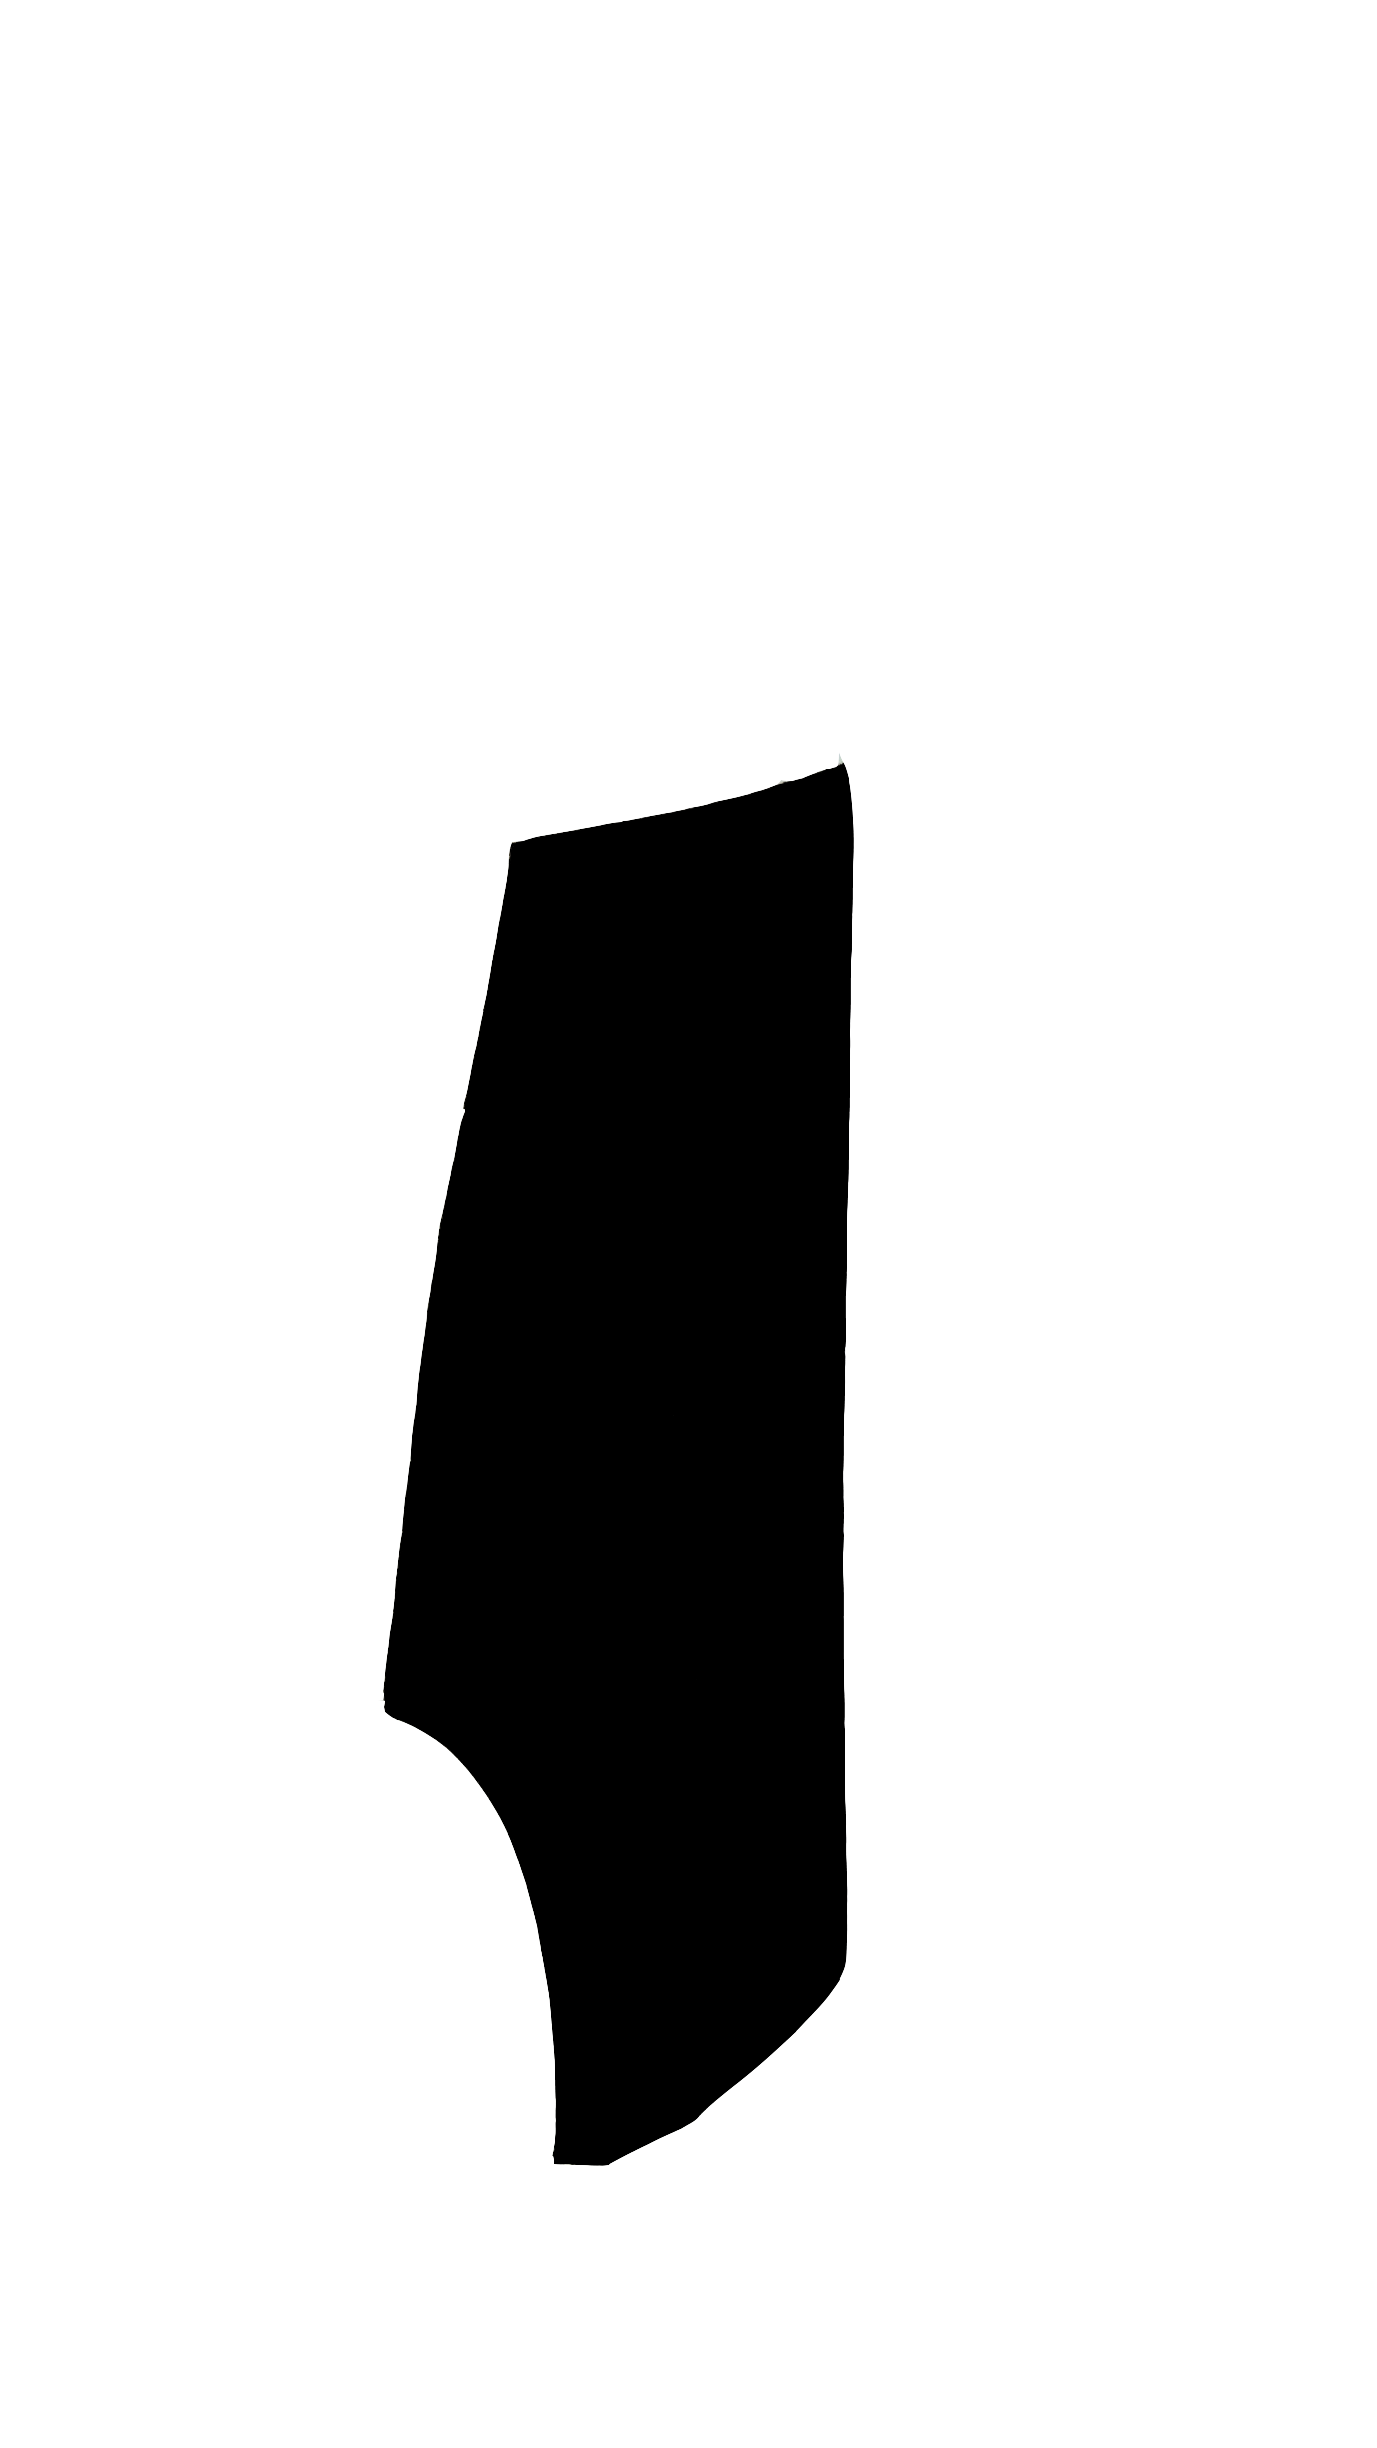
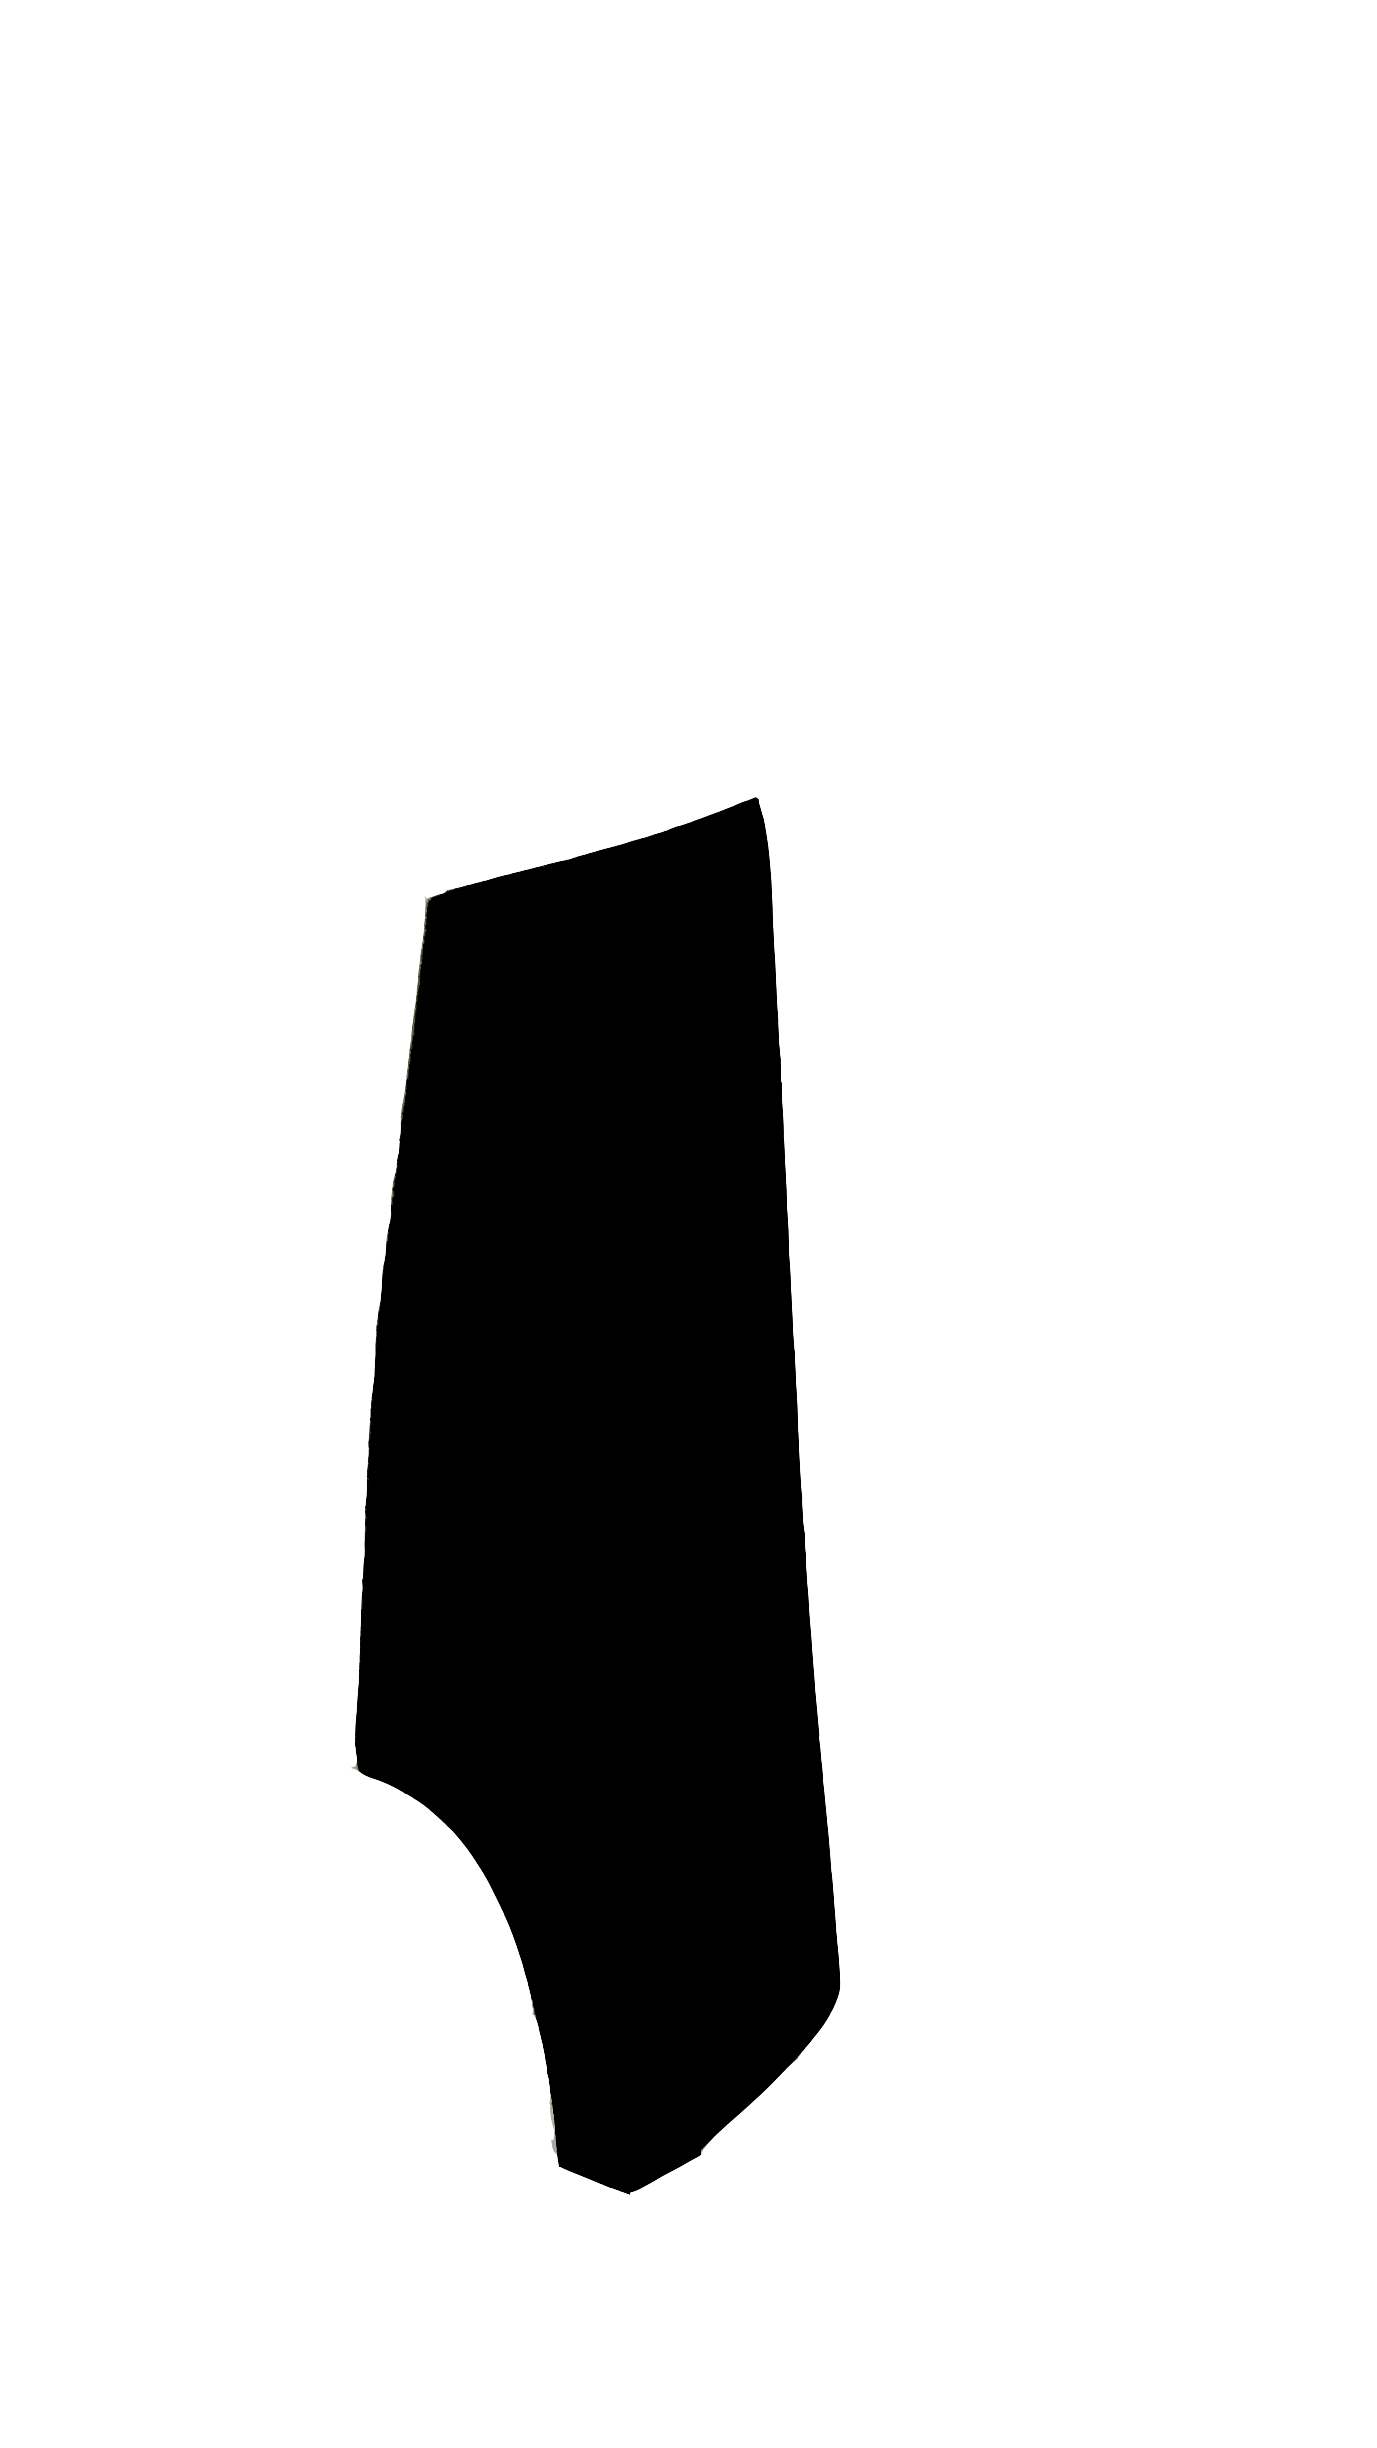
commit 6

Changed region(s): [[0.2498, 0.3105, 0.6245, 0.9003]]

diff --git a/Src/CutPanelAudit.py b/Src/CutPanelAudit.py
@@ -1,10 +1,11 @@
 import numpy as np
 import cv2
 from StackImage import stackImages
+from ShapeComparison import comparison
 
 # declaring the paths
 path1 = '../Cut Panels/1.png'
-path2 = '../Cut Panels/1.4.png'
+path2 = '../Cut Panels/2.png'
 
 # reading the images
 img1 = cv2.imread(path1)
@@ -28,9 +29,11 @@ ret, thresh2 = cv2.threshold(imgGray2, 100, 225, cv2.THRESH_BINARY_INV)
 # canny edge detection
 imgCanny1 = cv2.Canny(thresh1, 50, 50)
 imgCanny2 = cv2.Canny(thresh2, 50, 50)
-kernel = np.ones((5,5),np.uint8)
-dilation1 = cv2.dilate(imgCanny1,kernel,iterations = 3)
-dilation2 = cv2.dilate(imgCanny2,kernel,iterations = 3)
+
+# dilating the edges
+kernel = np.ones((5, 5), np.uint8)
+dilation1 = cv2.dilate(imgCanny1, kernel, iterations=3)
+dilation2 = cv2.dilate(imgCanny2, kernel, iterations=3)
 
 # finding contours
 contours1, hierarchy = cv2.findContours(dilation1, cv2.RETR_EXTERNAL, cv2.CHAIN_APPROX_NONE)
@@ -42,28 +45,46 @@ cnt2 = contours2[0]
 area1 = cv2.contourArea(cnt1)
 area2 = cv2.contourArea(cnt2)
 
+# rounding area values to 2 decimal points
+area1_float = "{:.2f}".format(area1)
+area2_float = "{:.2f}".format(area2)
+
 # calculating perimeter
 peri1 = cv2.arcLength(cnt1, True)
 peri2 = cv2.arcLength(cnt2, True)
 
-areaDiff = abs(area2-area1)
-periDiff = abs(peri2-peri1)
-# printing values
-print("Area Of Shape 1 : ", area1)
-print("Area Of Shape 2 : ", area2)
-print("Difference Of Area : ", areaDiff)
-print("\n")
-print("Perimeter Of Shape 1 : ", peri1)
-print("Perimeter Of Shape 2 : ", peri2)
-print("Difference Of Perimeter: ", periDiff)
-print("\n")
+# rounding perimeter values to 2 decimal points
+peri1_float = "{:.2f}".format(peri1)
+peri2_float = "{:.2f}".format(peri2)
+
+# calculating the absolute value of the area difference
+areaDiff = area1 - area2
+areaDiff_float = "{:.2f}".format(areaDiff)
+
+# calculating the absolute value of the perimeter difference
+periDiff = peri1 - peri2
+periDiff_float = "{:.2f}".format(periDiff)
 
 # drawing contours
 cv2.drawContours(imgContour1, cnt1, -1, (0, 225, 0), 20)
 cv2.drawContours(imgContour2, cnt2, -1, (0, 225, 0), 20)
 
+# calling the comparison function from ShapeComparison.py
+status = comparison(areaDiff, periDiff)
+
+# printing values
+print("Area Of Panel 1 : ", area1_float)
+print("Area Of Panel 2 : ", area2_float)
+print("Difference Of Area : ", areaDiff_float)
+print("\n")
+print("Perimeter Of Panel 1 : ", peri1_float)
+print("Perimeter Of Panel 2 : ", peri2_float)
+print("Difference Of Perimeter : ", periDiff_float)
+print("\n")
+print("Status : ", status)
+
 # declaring an array and calling the stackImage Function in StackImage.py
-imgStack = stackImages(0.1, ([img1, dilation1,imgContour1], [img2, dilation2,imgContour2]))
+imgStack = stackImages(0.1, ([img1, dilation1, imgContour1], [img2, dilation2, imgContour2]))
 
 # displaying the stack
 cv2.imshow("Stack", imgStack)

diff --git a/Src/ShapeComparison.py b/Src/ShapeComparison.py
@@ -1,0 +1,13 @@
+def comparison(areadifference, perimeterdiffernce):
+    ret = "Panel is good"
+    if areadifference > 0:
+        if perimeterdiffernce > 0:
+            ret = 'Panel has expanded'
+        elif perimeterdiffernce < 0:
+            ret = 'Shape Mismatch'
+    elif areadifference < 0:
+        if perimeterdiffernce > 0:
+            ret = 'Shape Mismatch'
+        elif perimeterdiffernce < 0:
+            ret = 'Panel Shrunk'
+    return ret
